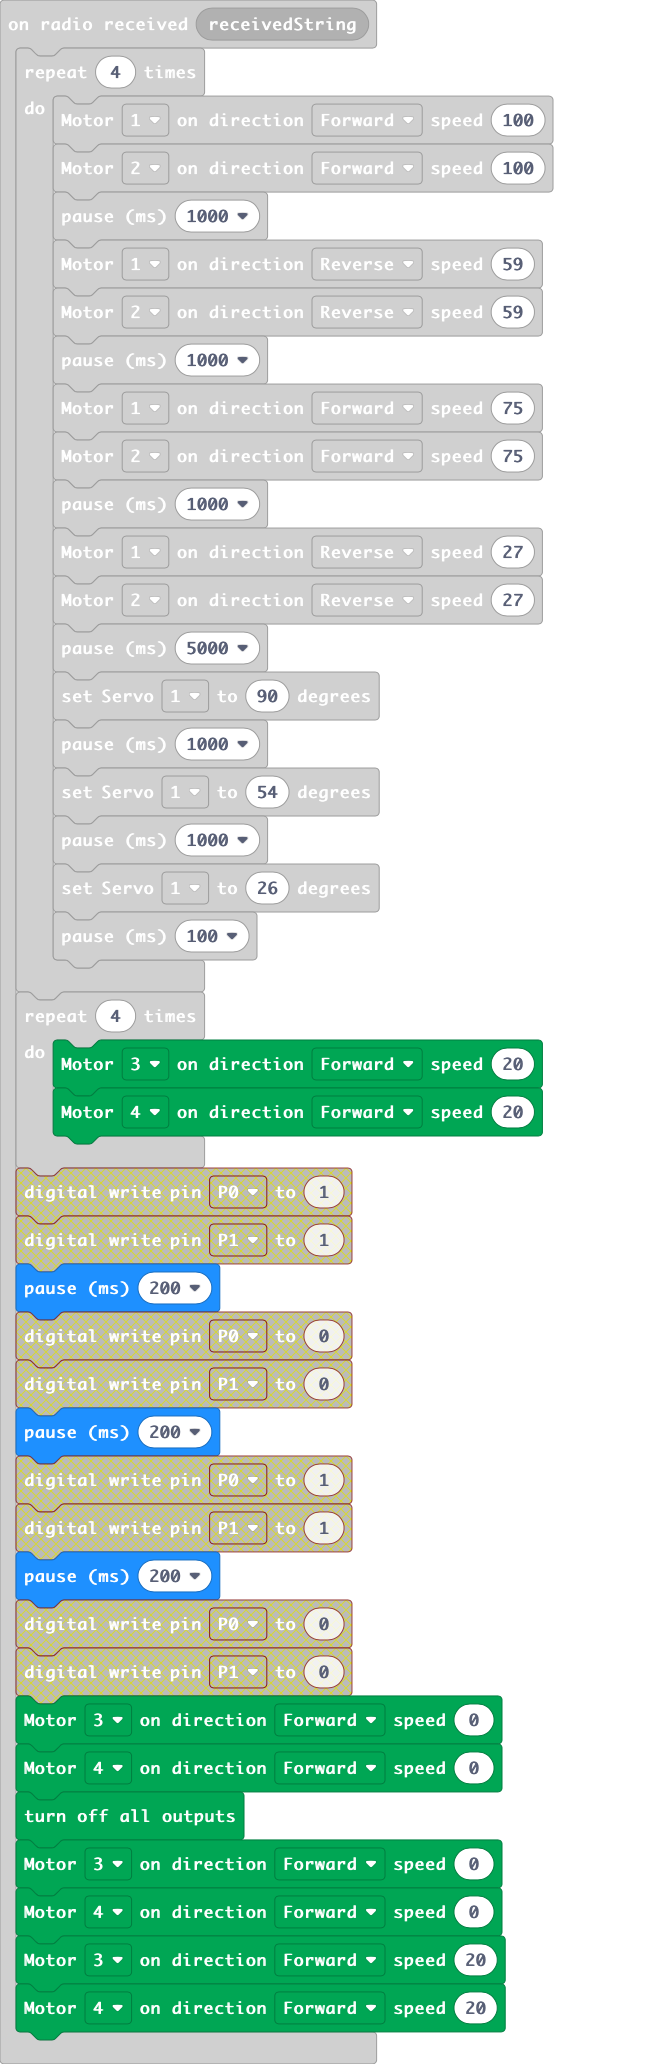
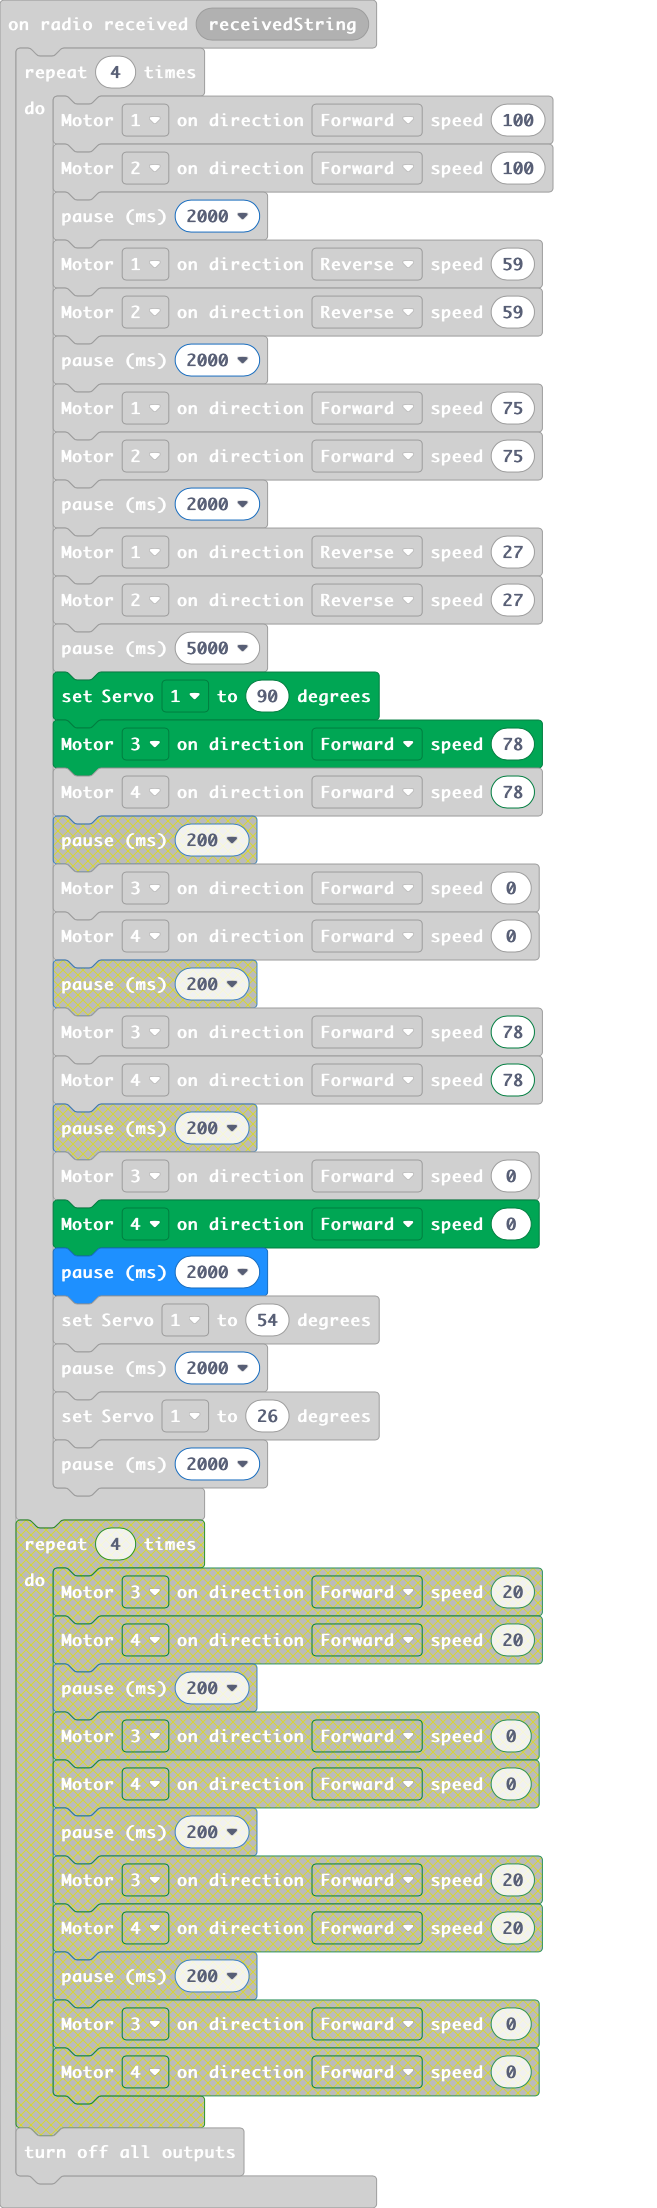
Update main.blocks, main.ts

diff --git a/main.ts b/main.ts
@@ -2,33 +2,28 @@ radio.onReceivedString(function (receivedString) {
     for (let index = 0; index < 4; index++) {
         Kitronik_Robotics_Board.motorOn(Kitronik_Robotics_Board.Motors.Motor1, Kitronik_Robotics_Board.MotorDirection.Forward, 100)
         Kitronik_Robotics_Board.motorOn(Kitronik_Robotics_Board.Motors.Motor2, Kitronik_Robotics_Board.MotorDirection.Forward, 100)
-        basic.pause(1000)
+        basic.pause(2000)
         Kitronik_Robotics_Board.motorOn(Kitronik_Robotics_Board.Motors.Motor1, Kitronik_Robotics_Board.MotorDirection.Reverse, 59)
         Kitronik_Robotics_Board.motorOn(Kitronik_Robotics_Board.Motors.Motor2, Kitronik_Robotics_Board.MotorDirection.Reverse, 59)
-        basic.pause(1000)
+        basic.pause(2000)
         Kitronik_Robotics_Board.motorOn(Kitronik_Robotics_Board.Motors.Motor1, Kitronik_Robotics_Board.MotorDirection.Forward, 75)
         Kitronik_Robotics_Board.motorOn(Kitronik_Robotics_Board.Motors.Motor2, Kitronik_Robotics_Board.MotorDirection.Forward, 75)
-        basic.pause(1000)
+        basic.pause(2000)
         Kitronik_Robotics_Board.motorOn(Kitronik_Robotics_Board.Motors.Motor1, Kitronik_Robotics_Board.MotorDirection.Reverse, 27)
         Kitronik_Robotics_Board.motorOn(Kitronik_Robotics_Board.Motors.Motor2, Kitronik_Robotics_Board.MotorDirection.Reverse, 27)
         basic.pause(5000)
         Kitronik_Robotics_Board.servoWrite(Kitronik_Robotics_Board.Servos.Servo1, 90)
-        basic.pause(1000)
+        Kitronik_Robotics_Board.motorOn(Kitronik_Robotics_Board.Motors.Motor3, Kitronik_Robotics_Board.MotorDirection.Forward, 78)
+        Kitronik_Robotics_Board.motorOn(Kitronik_Robotics_Board.Motors.Motor4, Kitronik_Robotics_Board.MotorDirection.Forward, 78)
+        basic.pause(2000)
         Kitronik_Robotics_Board.servoWrite(Kitronik_Robotics_Board.Servos.Servo1, 54)
-        basic.pause(1000)
-        Kitronik_Robotics_Board.servoWrite(Kitronik_Robotics_Board.Servos.Servo1, 26)
-        basic.pause(100)
-    }
-    for (let index = 0; index < 4; index++) {
-        Kitronik_Robotics_Board.motorOn(Kitronik_Robotics_Board.Motors.Motor3, Kitronik_Robotics_Board.MotorDirection.Forward, 20)
-        Kitronik_Robotics_Board.motorOn(Kitronik_Robotics_Board.Motors.Motor4, Kitronik_Robotics_Board.MotorDirection.Forward, 20)
-        basic.pause(200)
         Kitronik_Robotics_Board.motorOn(Kitronik_Robotics_Board.Motors.Motor3, Kitronik_Robotics_Board.MotorDirection.Forward, 0)
         Kitronik_Robotics_Board.motorOn(Kitronik_Robotics_Board.Motors.Motor4, Kitronik_Robotics_Board.MotorDirection.Forward, 0)
-        basic.pause(200)
-        Kitronik_Robotics_Board.motorOn(Kitronik_Robotics_Board.Motors.Motor3, Kitronik_Robotics_Board.MotorDirection.Forward, 20)
-        Kitronik_Robotics_Board.motorOn(Kitronik_Robotics_Board.Motors.Motor4, Kitronik_Robotics_Board.MotorDirection.Forward, 20)
-        basic.pause(200)
+        basic.pause(2000)
+        Kitronik_Robotics_Board.motorOn(Kitronik_Robotics_Board.Motors.Motor3, Kitronik_Robotics_Board.MotorDirection.Forward, 78)
+        Kitronik_Robotics_Board.motorOn(Kitronik_Robotics_Board.Motors.Motor4, Kitronik_Robotics_Board.MotorDirection.Forward, 78)
+        Kitronik_Robotics_Board.servoWrite(Kitronik_Robotics_Board.Servos.Servo1, 26)
+        basic.pause(2000)
         Kitronik_Robotics_Board.motorOn(Kitronik_Robotics_Board.Motors.Motor3, Kitronik_Robotics_Board.MotorDirection.Forward, 0)
         Kitronik_Robotics_Board.motorOn(Kitronik_Robotics_Board.Motors.Motor4, Kitronik_Robotics_Board.MotorDirection.Forward, 0)
     }
